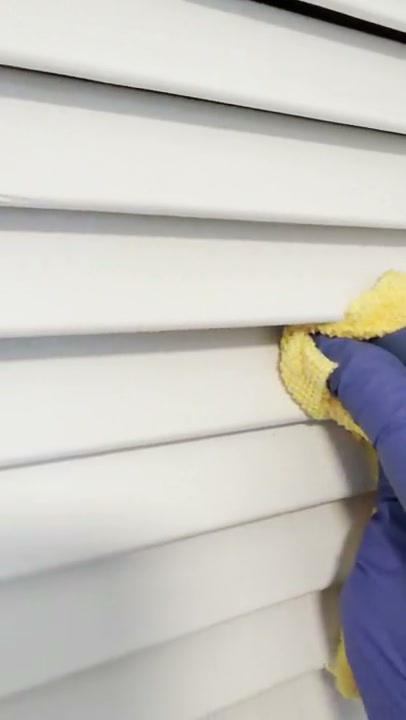
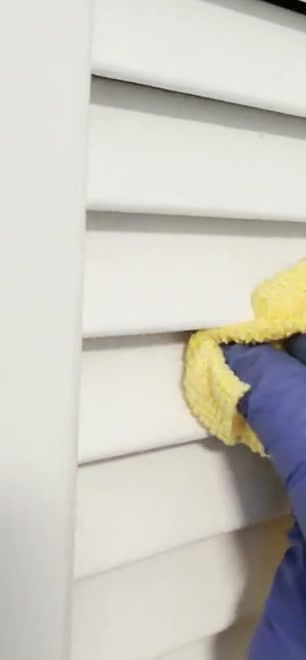
Improve video still selection for gallery photo grid
Replace blurry/unflattering frames with better captures: clip-01 at 25%
(full equipment spread), clip-06 at 25% (spotless fridge interior),
clip-10 at 25% (active blinds cleaning). Drop dirty bathtub shot.

diff --git a/src/i18n/translations.ts b/src/i18n/translations.ts
@@ -214,9 +214,9 @@ export const translations = {
         'Bathroom Finishing Touches',
         'Leather Furniture Care',
         'Supplies Ready to Go',
+        'Spotless Fridge Interior',
         'Fresh Bedroom Makeover',
         'Blinds Detail Cleaning',
-        'Bathtub Deep Clean',
       ],
       videosTitle: 'In Action',
       videosSubtitle: 'Watch our cleaning process',
@@ -641,9 +641,9 @@ export const translations = {
         'Завершающие штрихи ванной',
         'Уход за кожаной мебелью',
         'Средства готовы к работе',
+        'Безупречный холодильник',
         'Свежая уборка спальни',
         'Детальная чистка жалюзи',
-        'Генеральная чистка ванны',
       ],
       videosTitle: 'В действии',
       videosSubtitle: 'Смотрите процесс уборки',
@@ -1063,9 +1063,9 @@ export const translations = {
         'Завершальні штрихи ванної',
         'Догляд за шкіряними меблями',
         'Засоби готові до роботи',
+        'Бездоганний холодильник',
         'Свіже прибирання спальні',
         'Детальне чищення жалюзі',
-        'Генеральне чищення ванни',
       ],
       videosTitle: 'У дії',
       videosSubtitle: 'Дивіться процес прибирання',

diff --git a/src/app/gallery/page.tsx b/src/app/gallery/page.tsx
@@ -20,9 +20,9 @@ const SHOWCASE_PHOTOS = [
   { src: '/images/gallery/inna/bathroom-touches.jpg', titleKey: 4 },
   { src: '/images/gallery/inna/leather-cleaning.jpg', titleKey: 5 },
   { src: '/images/gallery/video-stills/clip-01.jpg', titleKey: 6 },
-  { src: '/images/gallery/video-stills/clip-03.jpg', titleKey: 7 },
-  { src: '/images/gallery/video-stills/clip-10.jpg', titleKey: 8 },
-  { src: '/images/gallery/video-stills/clip-02.jpg', titleKey: 9 },
+  { src: '/images/gallery/video-stills/clip-06.jpg', titleKey: 7 },
+  { src: '/images/gallery/video-stills/clip-03.jpg', titleKey: 8 },
+  { src: '/images/gallery/video-stills/clip-10.jpg', titleKey: 9 },
 ];
 
 // Video clips
